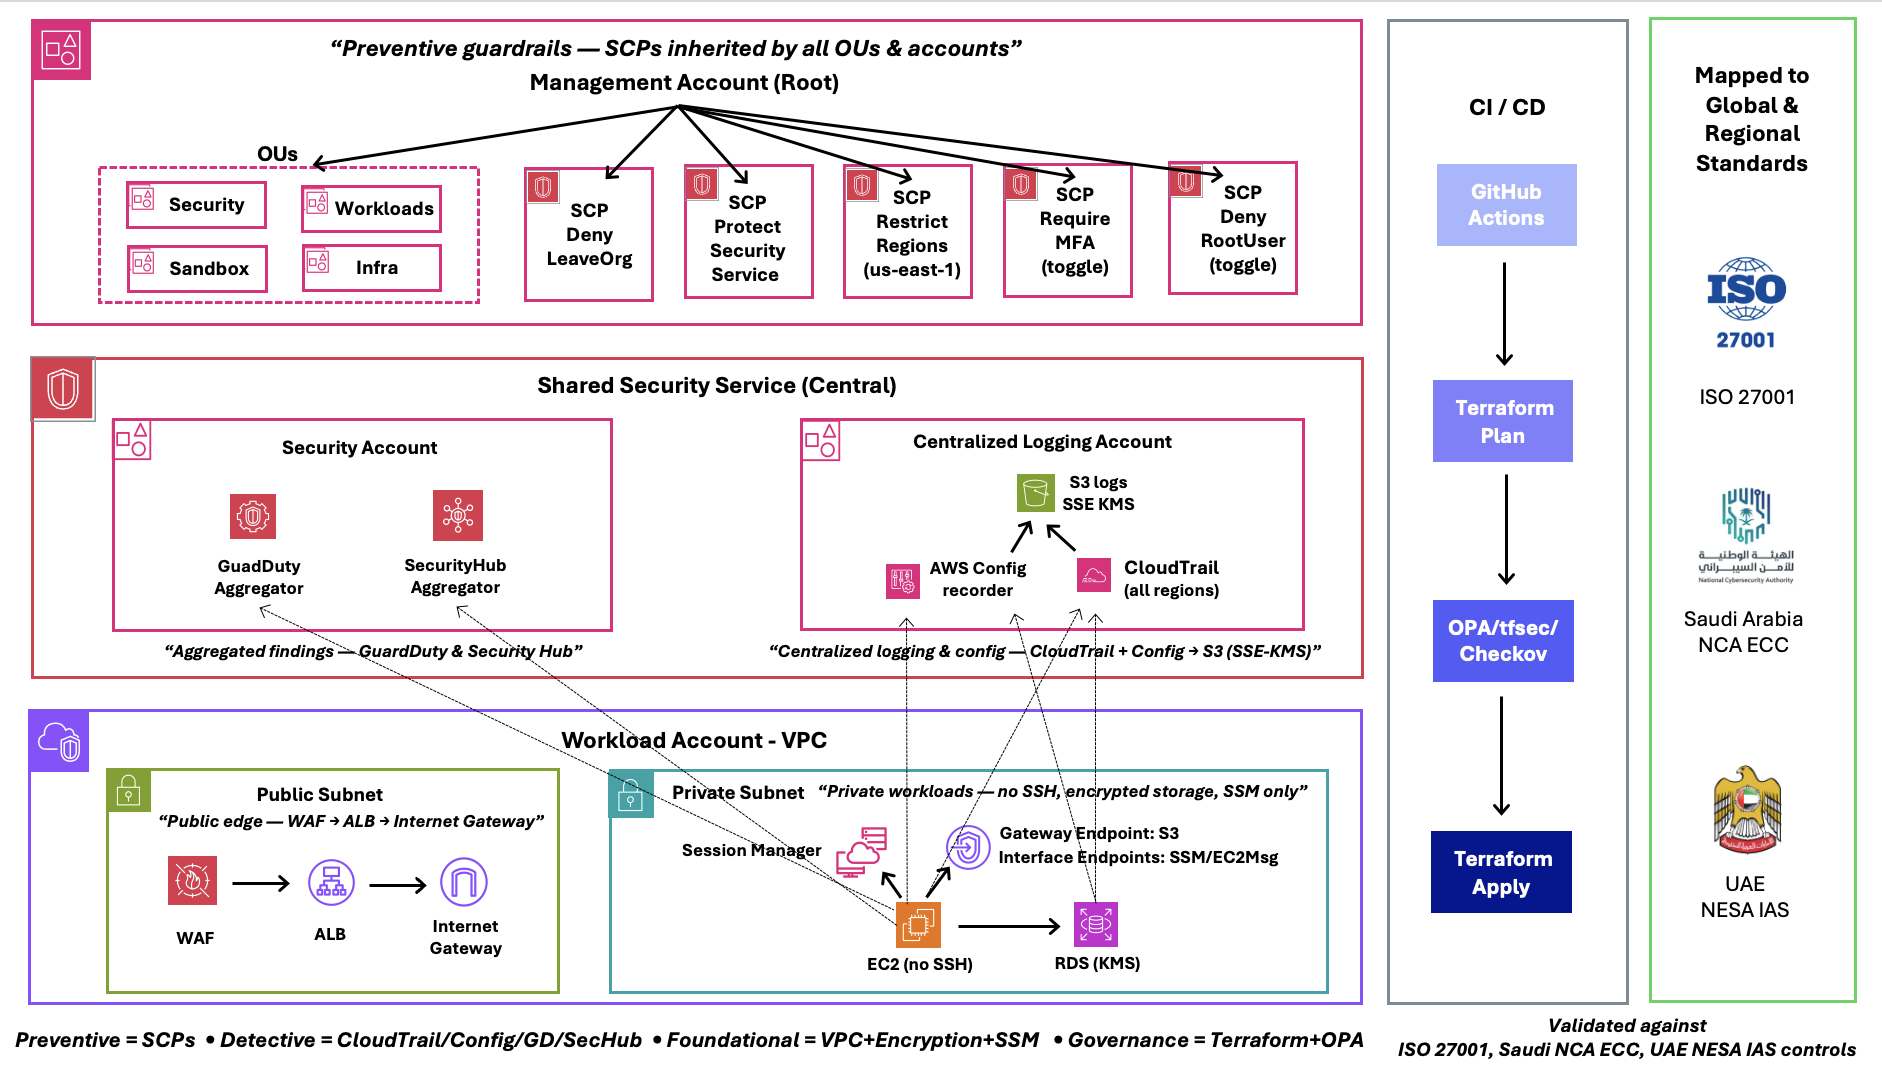
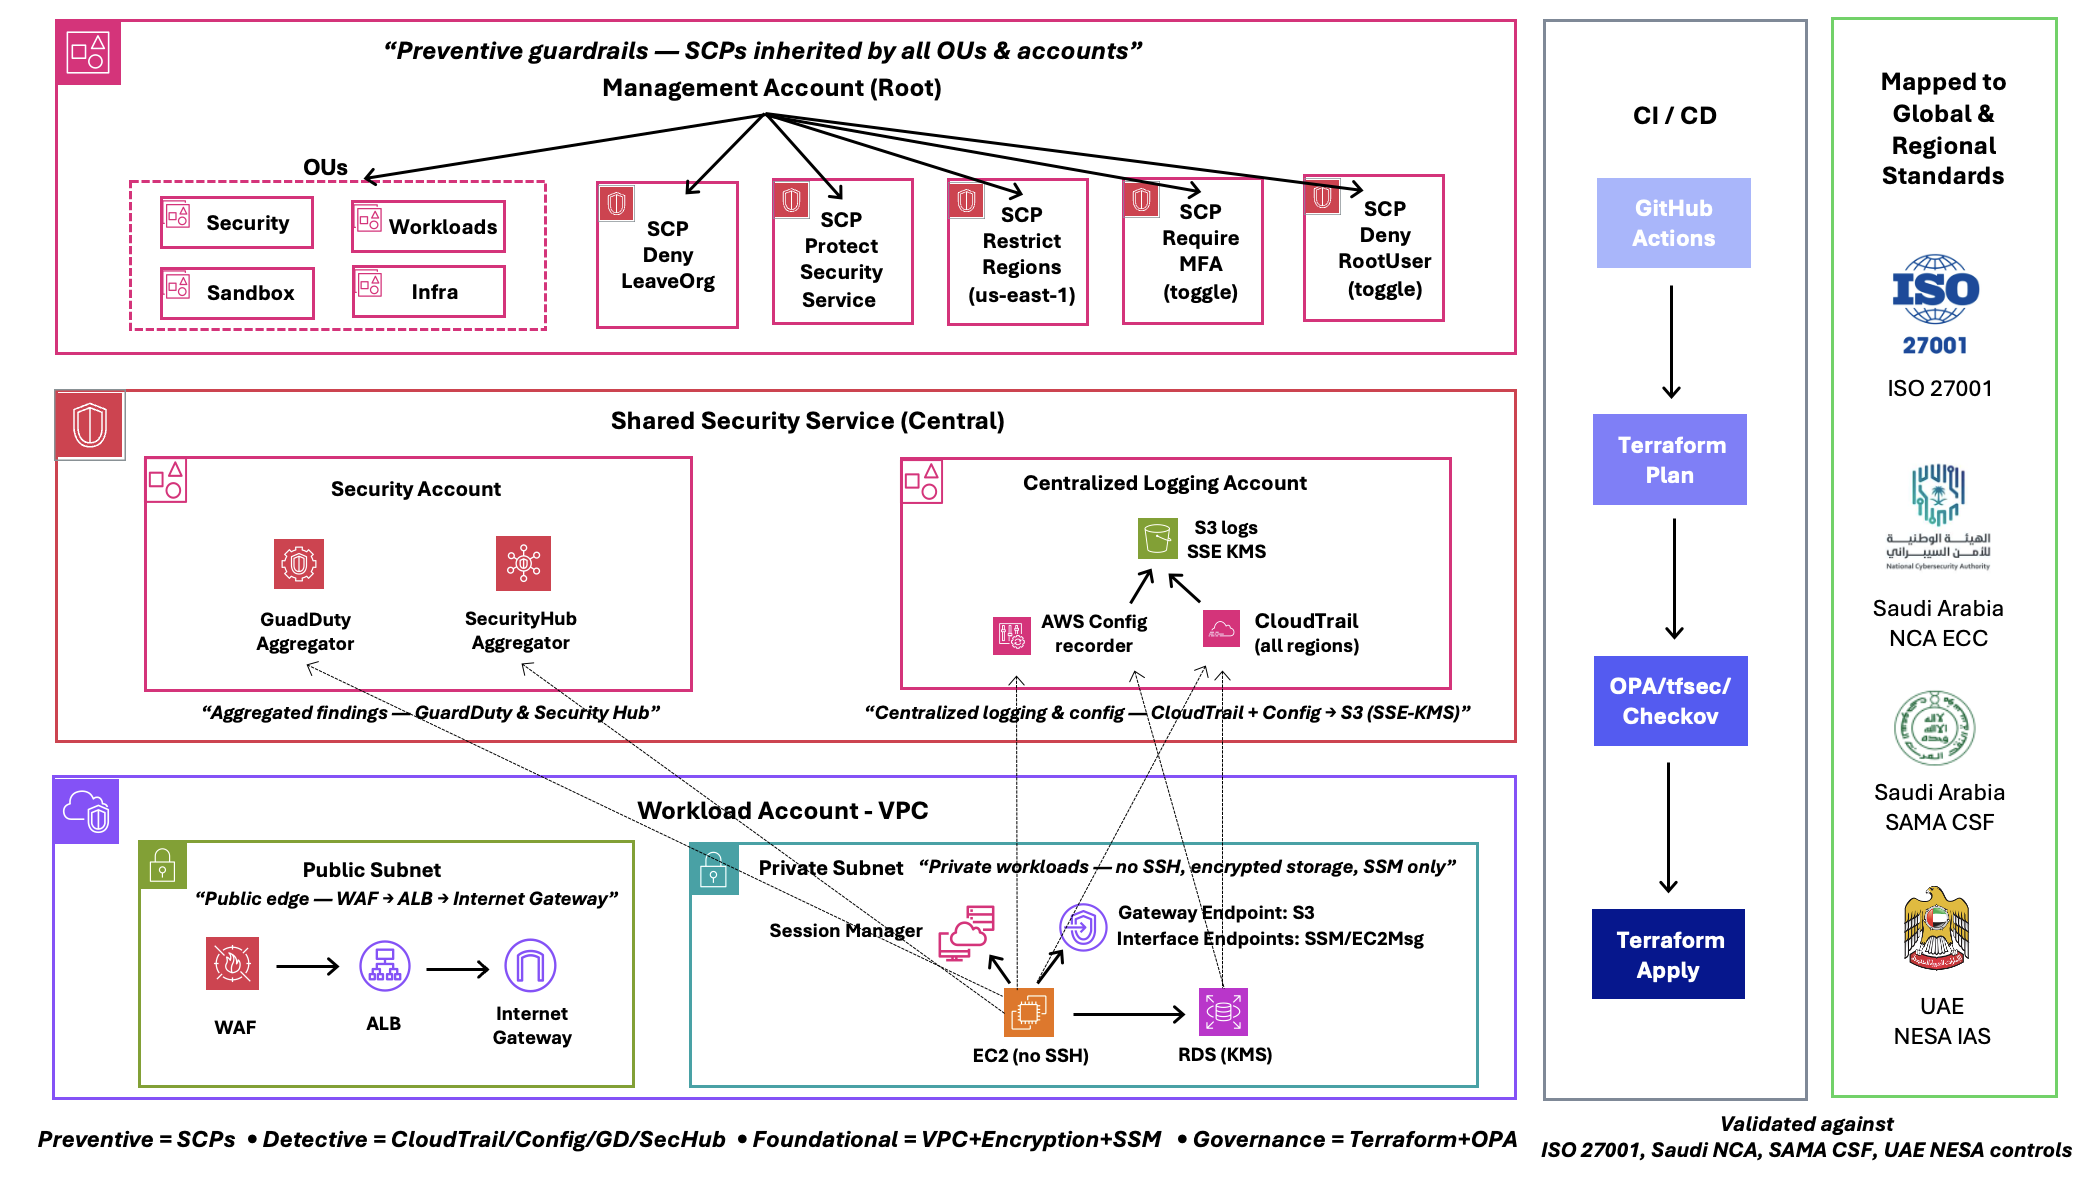
update:architecture-diagram and readme

diff --git a/README.md b/README.md
@@ -140,11 +140,12 @@ Full details (with screenshots + ISO mappings) → [Audit Checklist](docs/audit-
 
 ## Compliance Mapping
 
-| AWS Control         | AWS Service       | ISO 27001:2022 | NCA ECC | NESA IAS |
-|---------------------|------------------|----------------|---------|----------|
-| Centralized logging | CloudTrail + KMS | 8.15 Logging   | LGM-02  | MON-01   |
-| Encryption at rest  | KMS CMKs         | 8.24 Crypto    | CRY-01  | CRY-05   |
-| Access control      | IAM MFA + SCPs   | 5.18 Privileged access rights | IAM-03 | ACC-02 |
+| AWS Control         | AWS Service       | ISO 27001:2022              | NCA ECC  | SAMA CSF | NESA IAS |
+|---------------------|------------------|-----------------------------|----------|----------|----------|
+| Centralized logging | CloudTrail + KMS | 8.15 Logging                | LGM-02   | LOG      | MON-01   |
+| Encryption at rest  | KMS CMKs         | 8.24 Cryptography           | CRY-01   | CRY      | CRY-05   |
+| Access control      | IAM MFA + SCPs   | 5.18 Privileged access rights | IAM-03 | ACC, GOV | ACC-02   |
+
 
 📄 Full mapping → [docs/compliance-index.md](docs/compliance-index.md)
 
